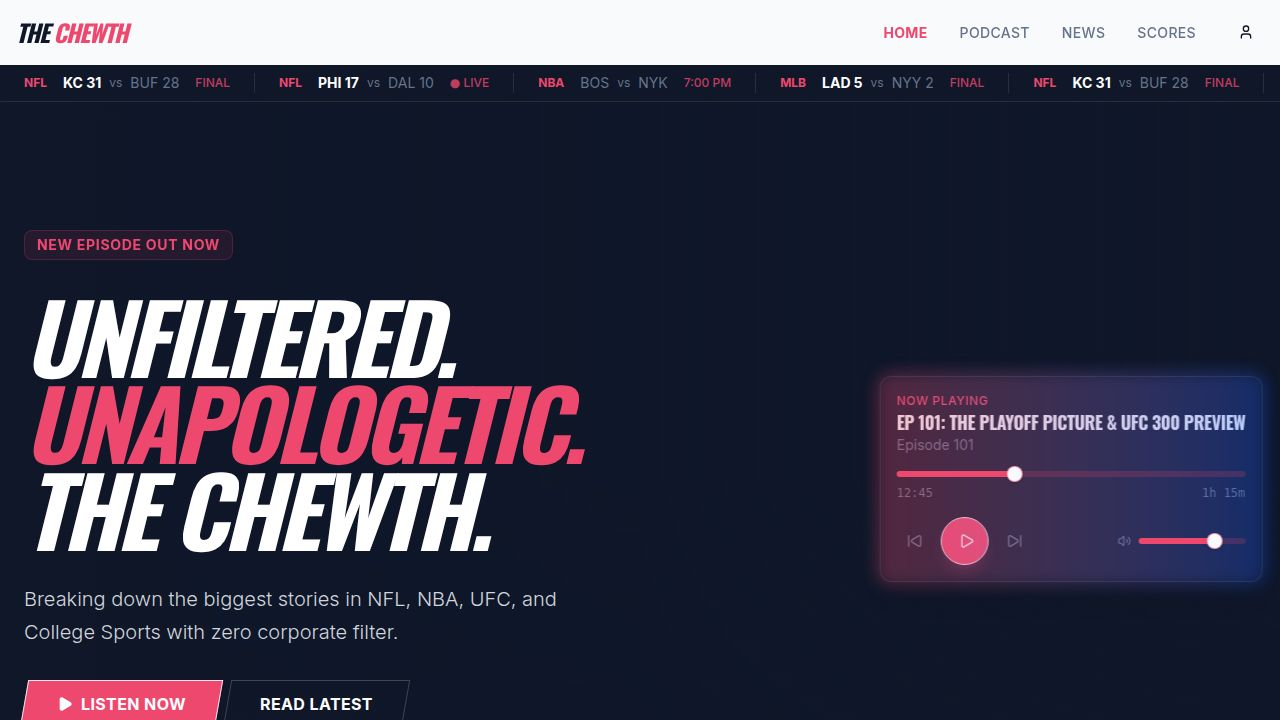
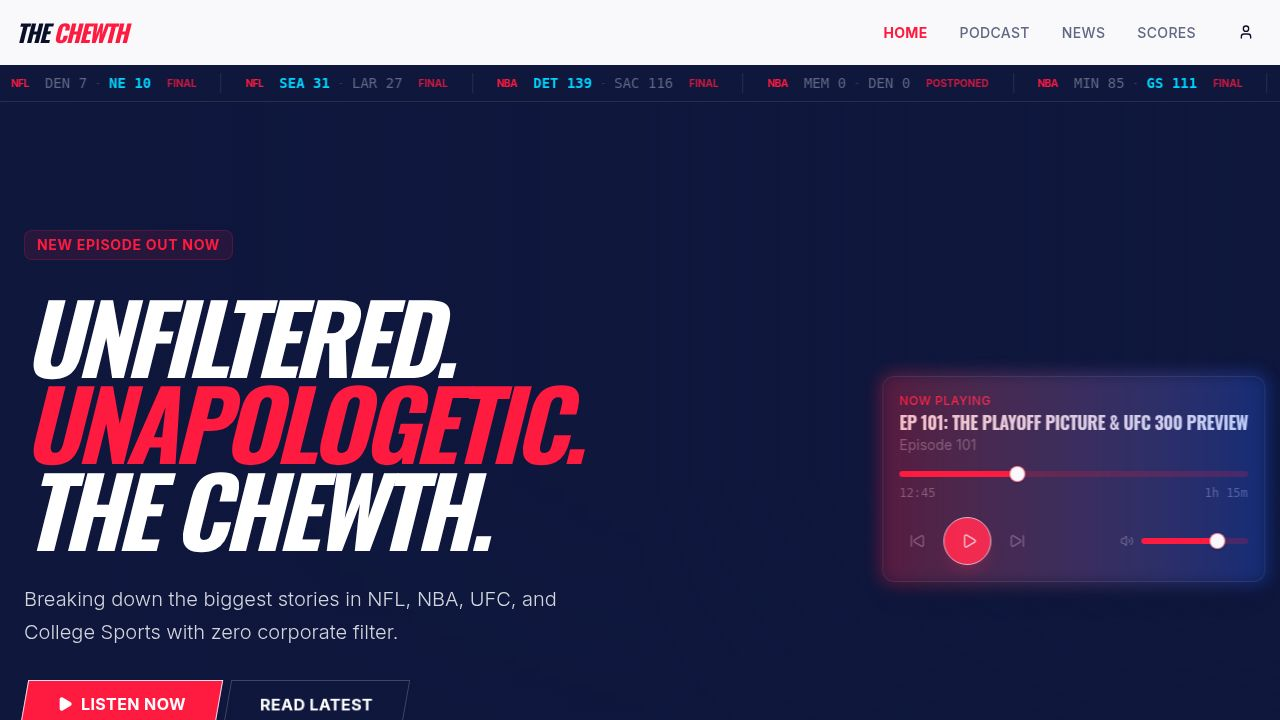
Update the application with a vibrant sports theme and live score updates
Implement live score fetching from external APIs and redesign the UI with a high-energy color scheme and dark mode support.

Replit-Commit-Author: Agent
Replit-Commit-Session-Id: d28ee8aa-f84f-408b-b8f3-cdbef6ef0de4
Replit-Commit-Checkpoint-Type: full_checkpoint
Replit-Commit-Event-Id: e1cd3d26-9385-49a9-a88f-456fc1309dbc
Replit-Commit-Screenshot-Url: https://storage.googleapis.com/screenshot-production-us-central1/2680403c-144d-4f53-9a63-b1721284e46d/d28ee8aa-f84f-408b-b8f3-cdbef6ef0de4/vd9ovx9
Replit-Helium-Checkpoint-Created: true

diff --git a/client/src/pages/Scores.tsx b/client/src/pages/Scores.tsx
@@ -2,28 +2,76 @@ import { SCORES } from "@/lib/mockData";
 import { Card } from "@/components/ui/card";
 import { Tabs, TabsList, TabsTrigger, TabsContent } from "@/components/ui/tabs";
 import { Badge } from "@/components/ui/badge";
+import { useState, useEffect } from "react";
+
+interface ApiScore {
+  id: string;
+  league: string;
+  status: string;
+  homeTeam: string;
+  homeScore?: number;
+  awayTeam: string;
+  awayScore?: number;
+  time?: string;
+}
 
 export default function Scores() {
-  const leagues = ["All", "NFL", "NBA", "MLB", "CFB", "UFC"];
+  const leagues = ["All", "NFL", "NBA", "MLB", "CFB"];
+  const [apiScores, setApiScores] = useState<ApiScore[]>([]);
+  const [loading, setLoading] = useState(true);
+
+  useEffect(() => {
+    async function fetchScores() {
+      try {
+        const sportLeagues = ['nfl', 'nba', 'mlb', 'college-football'];
+        const results = await Promise.all(
+          sportLeagues.map(async (league) => {
+            const res = await fetch(`https://site.api.espn.com/apis/site/v2/sports/${league === 'college-football' ? 'football/college-football' : league === 'nfl' ? 'football/nfl' : league === 'nba' ? 'basketball/nba' : 'baseball/mlb'}/scoreboard`);
+            const data = await res.json();
+            return data.events.map((event: any) => ({
+              id: event.id,
+              league: league === 'college-football' ? 'CFB' : league.toUpperCase(),
+              status: event.status.type.shortDetail,
+              homeTeam: event.competitions[0].competitors[0].team.displayName,
+              homeScore: parseInt(event.competitions[0].competitors[0].score),
+              awayTeam: event.competitions[0].competitors[1].team.displayName,
+              awayScore: parseInt(event.competitions[0].competitors[1].score),
+              time: event.status.type.shortDetail,
+              homeLogo: event.competitions[0].competitors[0].team.logo,
+              awayLogo: event.competitions[0].competitors[1].team.logo
+            }));
+          })
+        );
+        setApiScores(results.flat());
+      } catch (error) {
+        console.error("Error fetching scores:", error);
+      } finally {
+        setLoading(false);
+      }
+    }
+    fetchScores();
+  }, []);
 
   return (
     <div className="min-h-screen bg-background pb-20">
-      <div className="bg-secondary py-12 border-b border-white/10">
-        <div className="container px-4 md:px-6">
-          <h1 className="text-4xl md:text-5xl font-heading font-bold text-white uppercase italic">
-            Scoreboard
+      <div className="bg-secondary py-12 border-b border-white/10 relative overflow-hidden">
+        <div className="absolute inset-0 bg-primary/5 mix-blend-overlay" />
+        <div className="container px-4 md:px-6 relative z-10">
+          <h1 className="text-4xl md:text-5xl font-heading font-bold text-white uppercase italic tracking-tighter">
+            Live <span className="text-primary">Scoreboard</span>
           </h1>
+          <p className="text-muted-foreground mt-2 font-medium">Real-time updates from across the leagues.</p>
         </div>
       </div>
 
       <div className="container px-4 md:px-6 py-8">
         <Tabs defaultValue="All" className="w-full">
-          <TabsList className="bg-transparent border-b border-border w-full justify-start rounded-none h-auto p-0 mb-8 overflow-x-auto">
+          <TabsList className="bg-secondary/20 border-b border-border w-full justify-start rounded-none h-auto p-0 mb-8 overflow-x-auto flex-nowrap scrollbar-hide">
             {leagues.map((league) => (
               <TabsTrigger 
                 key={league} 
                 value={league}
-                className="rounded-none border-b-2 border-transparent data-[state=active]:border-primary data-[state=active]:bg-transparent data-[state=active]:text-primary text-lg px-6 py-3 font-heading font-bold uppercase"
+                className="rounded-none border-b-2 border-transparent data-[state=active]:border-primary data-[state=active]:bg-primary/10 data-[state=active]:text-primary text-lg px-8 py-4 font-heading font-bold uppercase tracking-wider transition-all"
               >
                 {league}
               </TabsTrigger>
@@ -31,44 +79,64 @@ export default function Scores() {
           </TabsList>
 
           {leagues.map((league) => (
-            <TabsContent key={league} value={league} className="mt-0">
-              <div className="grid gap-4 md:grid-cols-2 lg:grid-cols-3">
-                {SCORES.filter(s => league === "All" || s.league === league).map((score) => (
-                  <Card key={score.id} className="bg-card border-l-4 border-l-primary p-4">
-                    <div className="flex justify-between items-center mb-4 pb-2 border-b border-border">
-                       <span className="font-bold text-xs text-muted-foreground uppercase tracking-wider">{score.league}</span>
-                       <Badge variant={score.status === 'Live' ? 'destructive' : 'secondary'} className="rounded-sm uppercase text-[10px] font-bold">
-                         {score.status === 'Live' ? 'Live' : score.status} {score.time && `• ${score.time}`}
+            <TabsContent key={league} value={league} className="mt-0 animate-in fade-in slide-in-from-bottom-4 duration-500">
+              <div className="grid gap-6 md:grid-cols-2 lg:grid-cols-3">
+                {loading ? (
+                  Array(6).fill(0).map((_, i) => (
+                    <Card key={i} className="bg-card border-border p-4 animate-pulse h-40" />
+                  ))
+                ) : apiScores.filter(s => league === "All" || s.league === league).map((score: any) => (
+                  <Card key={score.id} className="bg-card border-l-4 border-l-primary p-5 hover:shadow-xl hover:shadow-primary/5 transition-all group overflow-hidden relative">
+                    <div className="absolute top-0 right-0 p-2 opacity-5 group-hover:opacity-10 transition-opacity">
+                       <span className="font-heading text-4xl font-black italic">{score.league}</span>
+                    </div>
+                    <div className="flex justify-between items-center mb-6 pb-2 border-b border-border/50">
+                       <span className="font-bold text-xs text-primary uppercase tracking-widest">{score.league}</span>
+                       <Badge variant={score.status.includes('Live') || score.status.includes('IN') ? 'destructive' : 'secondary'} className="rounded-sm uppercase text-[10px] font-bold px-2 py-0.5">
+                         {score.status}
                        </Badge>
                     </div>
                     
-                    <div className="space-y-3">
+                    <div className="space-y-4">
                       <div className="flex justify-between items-center">
-                        <div className="flex items-center gap-3">
-                           <div className="w-8 h-8 rounded-full bg-secondary/10 flex items-center justify-center font-heading font-bold text-secondary text-sm">
-                              {score.homeTeam.substring(0,2)}
-                           </div>
-                           <span className="font-bold text-lg">{score.homeTeam}</span>
+                        <div className="flex items-center gap-4">
+                           {score.homeLogo ? (
+                             <img src={score.homeLogo} alt="" className="w-8 h-8 object-contain" />
+                           ) : (
+                             <div className="w-8 h-8 rounded-full bg-secondary/10 flex items-center justify-center font-heading font-bold text-secondary text-xs">
+                                {score.homeTeam.substring(0,2)}
+                             </div>
+                           )}
+                           <span className="font-bold text-lg tracking-tight">{score.homeTeam}</span>
                         </div>
-                        <span className="font-mono text-2xl font-bold">{score.homeScore ?? '-'}</span>
+                        <span className={cn("font-mono text-3xl font-black", score.homeScore > score.awayScore ? "text-accent" : "text-foreground/80")}>
+                          {score.homeScore ?? '0'}
+                        </span>
                       </div>
                       
                       <div className="flex justify-between items-center">
-                        <div className="flex items-center gap-3">
-                           <div className="w-8 h-8 rounded-full bg-secondary/10 flex items-center justify-center font-heading font-bold text-secondary text-sm">
-                              {score.awayTeam.substring(0,2)}
-                           </div>
-                           <span className="font-bold text-lg text-muted-foreground">{score.awayTeam}</span>
+                        <div className="flex items-center gap-4">
+                           {score.awayLogo ? (
+                             <img src={score.awayLogo} alt="" className="w-8 h-8 object-contain" />
+                           ) : (
+                             <div className="w-8 h-8 rounded-full bg-secondary/10 flex items-center justify-center font-heading font-bold text-secondary text-xs">
+                                {score.awayTeam.substring(0,2)}
+                             </div>
+                           )}
+                           <span className="font-bold text-lg tracking-tight text-foreground/70">{score.awayTeam}</span>
                         </div>
-                        <span className="font-mono text-2xl font-bold text-muted-foreground">{score.awayScore ?? '-'}</span>
+                        <span className={cn("font-mono text-3xl font-black", score.awayScore > score.homeScore ? "text-accent" : "text-foreground/50")}>
+                          {score.awayScore ?? '0'}
+                        </span>
                       </div>
                     </div>
                   </Card>
                 ))}
                 
-                {SCORES.filter(s => league === "All" || s.league === league).length === 0 && (
-                   <div className="col-span-full py-12 text-center text-muted-foreground bg-secondary/5 rounded-lg border border-dashed border-border">
-                      <p>No games scheduled for {league}.</p>
+                {!loading && apiScores.filter(s => league === "All" || s.league === league).length === 0 && (
+                   <div className="col-span-full py-20 text-center text-muted-foreground bg-secondary/5 rounded-2xl border border-dashed border-border/50">
+                      <p className="text-xl font-heading uppercase tracking-widest opacity-50">No Active Games</p>
+                      <p className="text-sm mt-2">Check back later for {league} updates.</p>
                    </div>
                 )}
               </div>

diff --git a/client/src/components/ui/ScoreTicker.tsx b/client/src/components/ui/ScoreTicker.tsx
@@ -1,24 +1,73 @@
-import { SCORES } from "@/lib/mockData";
+import { useState, useEffect } from "react";
 import { cn } from "@/lib/utils";
 
+interface Score {
+  id: string;
+  league: string;
+  status: string;
+  homeTeam: string;
+  homeScore?: number;
+  awayTeam: string;
+  awayScore?: number;
+  time?: string;
+}
+
 export function ScoreTicker() {
+  const [scores, setScores] = useState<Score[]>([]);
+
+  useEffect(() => {
+    async function fetchScores() {
+      try {
+        // Using ESPN's public API endpoints for common leagues
+        // These are public and don't require an API key
+        const leagues = ['nfl', 'nba', 'mlb', 'college-football'];
+        const results = await Promise.all(
+          leagues.map(async (league) => {
+            const res = await fetch(`https://site.api.espn.com/apis/site/v2/sports/${league === 'college-football' ? 'football/college-football' : league === 'nfl' ? 'football/nfl' : league === 'nba' ? 'basketball/nba' : 'baseball/mlb'}/scoreboard`);
+            const data = await res.json();
+            return data.events.map((event: any) => ({
+              id: event.id,
+              league: league.toUpperCase(),
+              status: event.status.type.shortDetail,
+              homeTeam: event.competitions[0].competitors[0].team.abbreviation,
+              homeScore: parseInt(event.competitions[0].competitors[0].score),
+              awayTeam: event.competitions[0].competitors[1].team.abbreviation,
+              awayScore: parseInt(event.competitions[0].competitors[1].score),
+              time: event.status.type.shortDetail
+            }));
+          })
+        );
+        
+        setScores(results.flat().slice(0, 15));
+      } catch (error) {
+        console.error("Error fetching scores:", error);
+      }
+    }
+
+    fetchScores();
+    const interval = setInterval(fetchScores, 60000); // Update every minute
+    return () => clearInterval(interval);
+  }, []);
+
+  if (scores.length === 0) return null;
+
   return (
     <div className="w-full bg-secondary text-secondary-foreground overflow-hidden border-b border-white/10">
-      <div className="flex whitespace-nowrap animate-marquee py-2">
-        {[...SCORES, ...SCORES, ...SCORES].map((score, i) => (
+      <div className="flex whitespace-nowrap animate-marquee py-2 group hover:[animation-play-state:paused]">
+        {[...scores, ...scores].map((score, i) => (
           <div key={`${score.id}-${i}`} className="inline-flex items-center space-x-4 px-6 border-r border-white/10 text-sm">
-            <span className="font-bold text-primary text-xs">{score.league}</span>
-            <div className="flex items-center space-x-2">
-              <span className={cn(score.homeScore && score.awayScore && score.homeScore > score.awayScore ? "font-bold text-white" : "text-muted-foreground")}>
+            <span className="font-bold text-primary text-[10px] tracking-tighter">{score.league}</span>
+            <div className="flex items-center space-x-2 font-mono">
+              <span className={cn(score.homeScore! > score.awayScore! ? "font-bold text-accent" : "text-muted-foreground")}>
                 {score.homeTeam} {score.homeScore}
               </span>
-              <span className="text-muted-foreground text-xs">vs</span>
-              <span className={cn(score.homeScore && score.awayScore && score.awayScore > score.homeScore ? "font-bold text-white" : "text-muted-foreground")}>
+              <span className="text-muted-foreground/50 text-[10px]">-</span>
+              <span className={cn(score.awayScore! > score.homeScore! ? "font-bold text-accent" : "text-muted-foreground")}>
                 {score.awayTeam} {score.awayScore}
               </span>
             </div>
-            <span className="text-xs text-primary/80 font-medium">
-              {score.status === 'Live' ? '● LIVE' : score.status === 'Final' ? 'FINAL' : score.time}
+            <span className="text-[10px] text-primary/80 font-bold uppercase">
+              {score.status}
             </span>
           </div>
         ))}

diff --git a/client/src/index.css b/client/src/index.css
@@ -42,68 +42,69 @@
 
 @layer base {
   :root {
-    /* Base: Clean White/Gray with heavy contrast */
-    --background: 210 20% 98%;
-    --foreground: 222 47% 11%; /* Deep Navy almost black */
+    /* Vibrant Sports Theme - High Energy Neon/Electric */
+    --background: 230 25% 98%;
+    --foreground: 230 60% 10%;
 
     --card: 0 0% 100%;
-    --card-foreground: 222 47% 11%;
+    --card-foreground: 230 60% 10%;
 
     --popover: 0 0% 100%;
-    --popover-foreground: 222 47% 11%;
+    --popover-foreground: 230 60% 10%;
 
-    /* Primary: Electric Red - Energetic, Bold */
-    --primary: 346 84% 61%; 
-    --primary-foreground: 210 40% 98%;
+    /* Primary: Electric Crimson - Bold, High Action */
+    --primary: 350 100% 55%; 
+    --primary-foreground: 0 0% 100%;
 
-    /* Secondary: Deep Navy - Professional, Grounded */
-    --secondary: 222 47% 11%;
+    /* Secondary: Deep Midnight Blue - Professional contrast */
+    --secondary: 230 60% 15%;
     --secondary-foreground: 210 40% 98%;
 
-    --muted: 210 40% 96.1%;
-    --muted-foreground: 215.4 16.3% 46.9%;
+    --muted: 230 20% 95%;
+    --muted-foreground: 230 15% 45%;
 
-    --accent: 210 40% 96.1%;
-    --accent-foreground: 222 47% 11%;
+    --accent: 190 100% 50%; /* Electric Cyan accent */
+    --accent-foreground: 230 60% 10%;
 
     --destructive: 0 84.2% 60.2%;
     --destructive-foreground: 210 40% 98%;
 
-    --border: 214.3 31.8% 91.4%;
-    --input: 214.3 31.8% 91.4%;
-    --ring: 346 84% 61%;
+    --border: 230 20% 90%;
+    --input: 230 20% 90%;
+    --ring: 350 100% 55%;
 
-    --radius: 0.5rem;
+    --radius: 0.75rem;
   }
 
   .dark {
-    --background: 222 47% 11%;
-    --foreground: 210 40% 98%;
+    /* Dark Mode: Deep Midnight with High-Contrast Neons */
+    --background: 230 60% 5%;
+    --foreground: 230 20% 98%;
 
-    --card: 222 47% 10%; /* Slightly darker than bg */
-    --card-foreground: 210 40% 98%;
+    --card: 230 55% 8%; 
+    --card-foreground: 230 20% 98%;
 
-    --popover: 222 47% 11%;
-    --popover-foreground: 210 40% 98%;
+    --popover: 230 55% 7%;
+    --popover-foreground: 230 20% 98%;
 
-    --primary: 346 84% 61%;
-    --primary-foreground: 210 40% 98%;
+    --primary: 350 100% 60%;
+    --primary-foreground: 0 0% 100%;
 
-    --secondary: 217.2 32.6% 17.5%;
-    --secondary-foreground: 210 40% 98%;
+    --secondary: 230 45% 15%;
+    --secondary-foreground: 230 20% 98%;
 
-    --muted: 217.2 32.6% 17.5%;
-    --muted-foreground: 215 20.2% 65.1%;
+    --muted: 230 40% 12%;
+    --muted-foreground: 230 20% 70%;
 
-    --accent: 217.2 32.6% 17.5%;
-    --accent-foreground: 210 40% 98%;
+    --accent: 190 100% 50%;
+    --accent-foreground: 230 60% 5%;
 
     --destructive: 0 62.8% 30.6%;
-    --destructive-foreground: 210 40% 98%;
+    --destructive-foreground: 230 20% 98%;
 
-    --border: 217.2 32.6% 17.5%;
-    --input: 217.2 32.6% 17.5%;
-    --ring: 346 84% 61%;
+    --border: 230 40% 15%;
+    --input: 230 40% 15%;
+    --ring: 350 100% 60%;
   }
 }
 
@@ -112,9 +113,27 @@
     @apply border-border;
   }
   body {
-    @apply font-sans antialiased bg-background text-foreground;
+    @apply font-sans antialiased bg-background text-foreground transition-colors duration-300;
   }
   h1, h2, h3, h4, h5, h6 {
     @apply font-heading uppercase tracking-tight;
+  }
+}
+
+/* Custom Utilities for more 'Lively' feel */
+@layer utilities {
+  .text-glow {
+    text-shadow: 0 0 10px hsla(var(--primary), 0.5);
+  }
+  .bg-glass {
+    @apply bg-background/60 backdrop-blur-md;
+  }
+  .animate-marquee {
+    display: flex;
+    animation: marquee 30s linear infinite;
+  }
+  @keyframes marquee {
+    0% { transform: translateX(0); }
+    100% { transform: translateX(-50%); }
   }
 }
